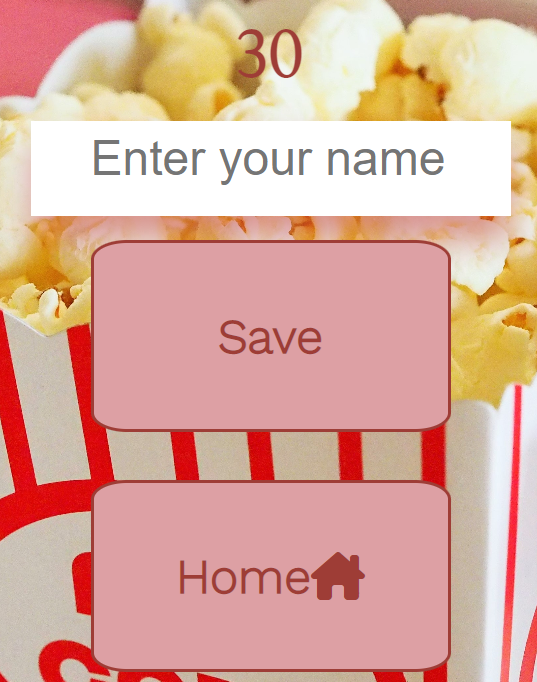
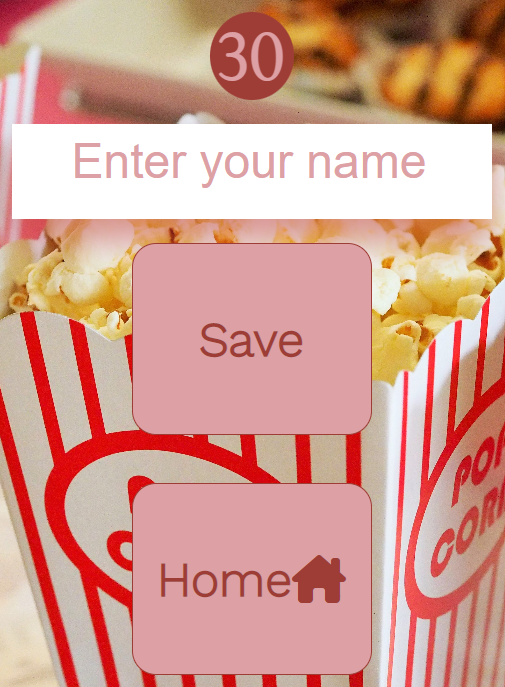
Docs: Include device testing details in README

diff --git a/assets/css/style.css b/assets/css/style.css
@@ -216,9 +216,9 @@ form {
     margin: 1rem 0;
     height: 8rem;
     width: 15rem;
-    color: #DDA0A4;
-    background-color: #9E3D36;
-    border: 1px solid #DDA0A4;
+    color: #9E3D36;
+    background-color: #DDA0A4;
+    border: 1px solid #9E3D36;
 }
 
 .btn[disabled]:hover {
@@ -260,7 +260,7 @@ input::placeholder {
     color: #DDA0A4;
     background-color: #9E3D36;
     border-radius: 50%;
-    width: 3rem;
+    width: 3.5rem;
     text-align: center;
 }
 

diff --git a/README.md b/README.md
@@ -2,6 +2,8 @@
 
 This website provides an interavtive quiz with 6 different categories of movie genre for the user to choose. The user will be asked 5 questions in each category and their score will be displayed and stored at the end of each category.
 
+[View the live website here](https://louiseconlon11.github.io/lights-camera-quiz-time/)
+
 ## User experience
 ### User Stories
 - First Time Vistor Goals
@@ -125,21 +127,27 @@ First Time Users
 
 ### Testing on Browers and Devices
 #### Browser Testing
-- The site was tested on Google Chrome, Microsoft Edge and several mobile devices.
-- 
-- 
-- 
-- 
+- The site was tested on Google Chrome, Microsoft Edge and Internet Explorer.
+- The layout and positioning of the buttons on the home screen and question and answer boxes appear consistent
+- The external social media links all work and open in a new tab
+- The internal links to the home screen accessible from the main site heading and home buttons on the end screen and high scores screen all return the user to the home screen.
+- The input field on the end screen allows the user input and the save button is disabled unless the user enters a username.
+- The website is responsive on all applications.
 
 #### Device Testing
-- On the Samsung Galaxy A12 and the iPhone 13 the site works well, there is a delay on the hover effect from question to question. The question that was previously selected remains hovered over on the next question.
+- The site was tested on a variety of devices including desktop, HP laptops, Samsung Galaxy A12 and A13, iPhone13 and iPhone SE 2 models. Family members were asked to access the site and navigate through the quiz and different pages and inform me of any overlap, sizing or functionality issues.
+- Initially on the iPhone13 model and Galaxy A12 there was a delay on the hover effect from question to question. This caused a difference in sizing of the answer boxes on the consecutive question as the hover remained on the option that was previously clicked. To rectify this issue I removed the hover effect transition for screen sizes less than 400px.
+![User Tests Hover](assets/images/user-test-hover.jpg)
 - Users were having trouble selecting the options for some of the questions so I changed the option-text width to 100% so the users can click anywhere in the box to choose their option.
-- 
+- There was an overlap of the answers boxes and question box so I added a margin between them to prevent this.
+![User Tests Overlap](assets/images/user-test-overlap.jpg)
+- Some of the option text was not correctly fitting in the answer boxes as certain questions have quite a number of characters so I increased the width of the answer boxes on smaller screen sizes to remedy this.
+![User Tests Answer Box Size](assets/images/user-test-answer-box-size.jpg)
 
 #### Lighthouse Testing
-- 
-- 
-- 
+- I carried out a Lighthouse test using the Google Chrome Lighthouse facility for both desktop and mobile. The results are very positive for accessibility, best practices and search engine optimisation. 
+![Lighthouse test mobile]()
+![Lighthouse test desktop]()
 
 ### Bugs
 #### Solved Bugs
